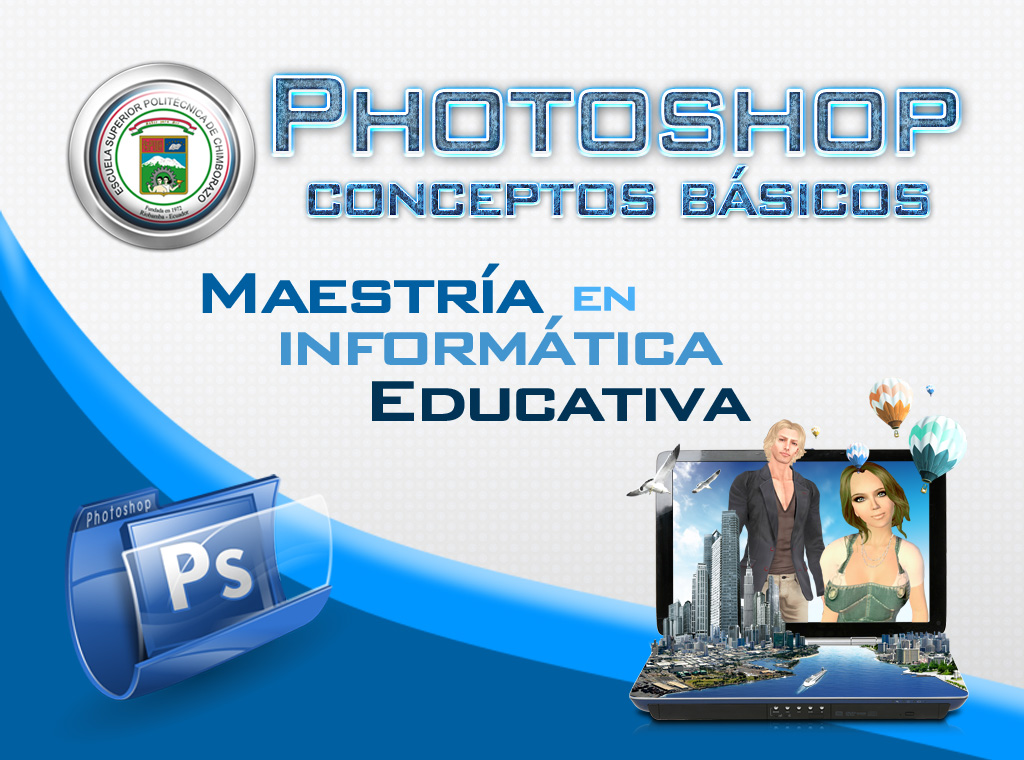
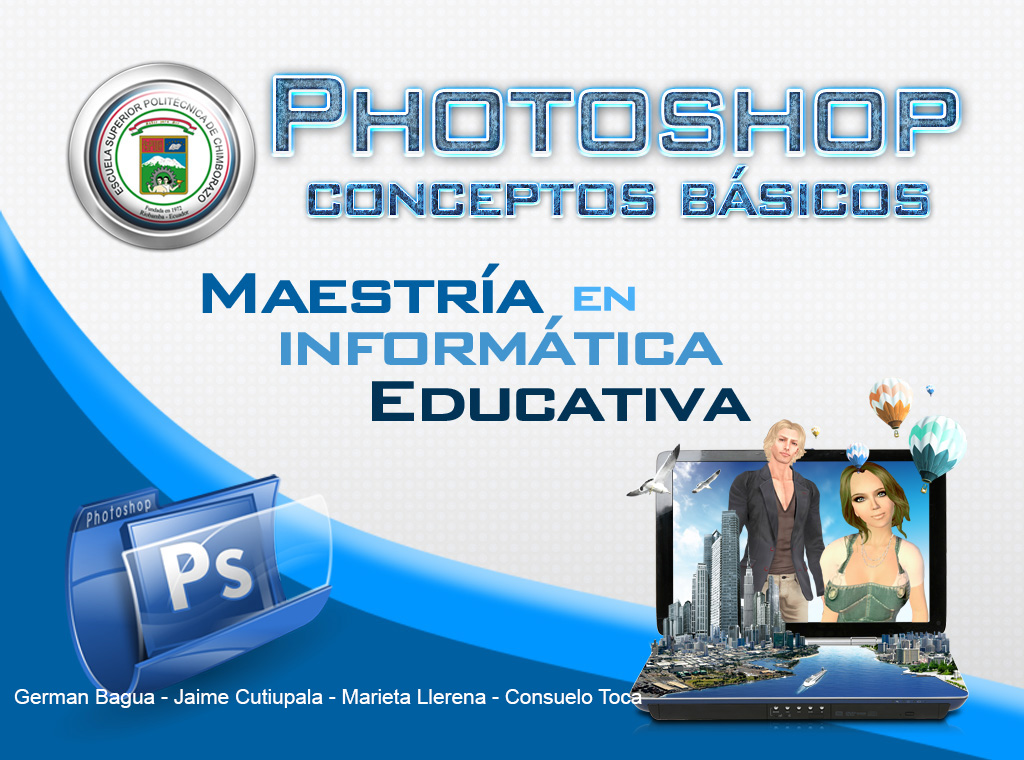
modificación nombres en el fondo
modificación nombres en el fondo

Changed region(s): [[0.0, 0.9079, 0.625, 0.9382]]

diff --git a/Proyecto_Grupo/herramientas.html b/Proyecto_Grupo/herramientas.html
@@ -20,6 +20,7 @@
       <blockquote><p>Puede expandir algunas herramientas con el fin de ver las que contiene ocultas. Un triángulo pequeño en el lateral inferior derecho del icono de herramienta indica la presencia de herramientas ocultas.</p></blockquote>
       <blockquote>
         <p>Para ver información sobre una herramienta basta con colocar el puntero sobre ella. En la información de herramientas que se muestra debajo del puntero aparece el nombre de la herramienta.</p>
+        <p><img src="imagenes/herrra.jpg" width="250" height="205" alt="herr"></p>
         <p align="center"><a href="seleccion.html" target="centro"><img src="imagenes/herramientas/adelante.png" width="50" height="50" alt="siguiente"></a></p>
       </blockquote>
     </font></td>

diff --git a/Proyecto_Grupo/Centro.html b/Proyecto_Grupo/Centro.html
@@ -7,6 +7,8 @@
 </head>
 
 <body  bgcolor="#B5D0FF">
-<center><img src="imagenes/fondo.png" width="833" height="386"></center>
+<center>
+  <img src="imagenes/fondo.jpg" width="612" height="550" alt="fondo">
+</center>
 </body>
 </html>
